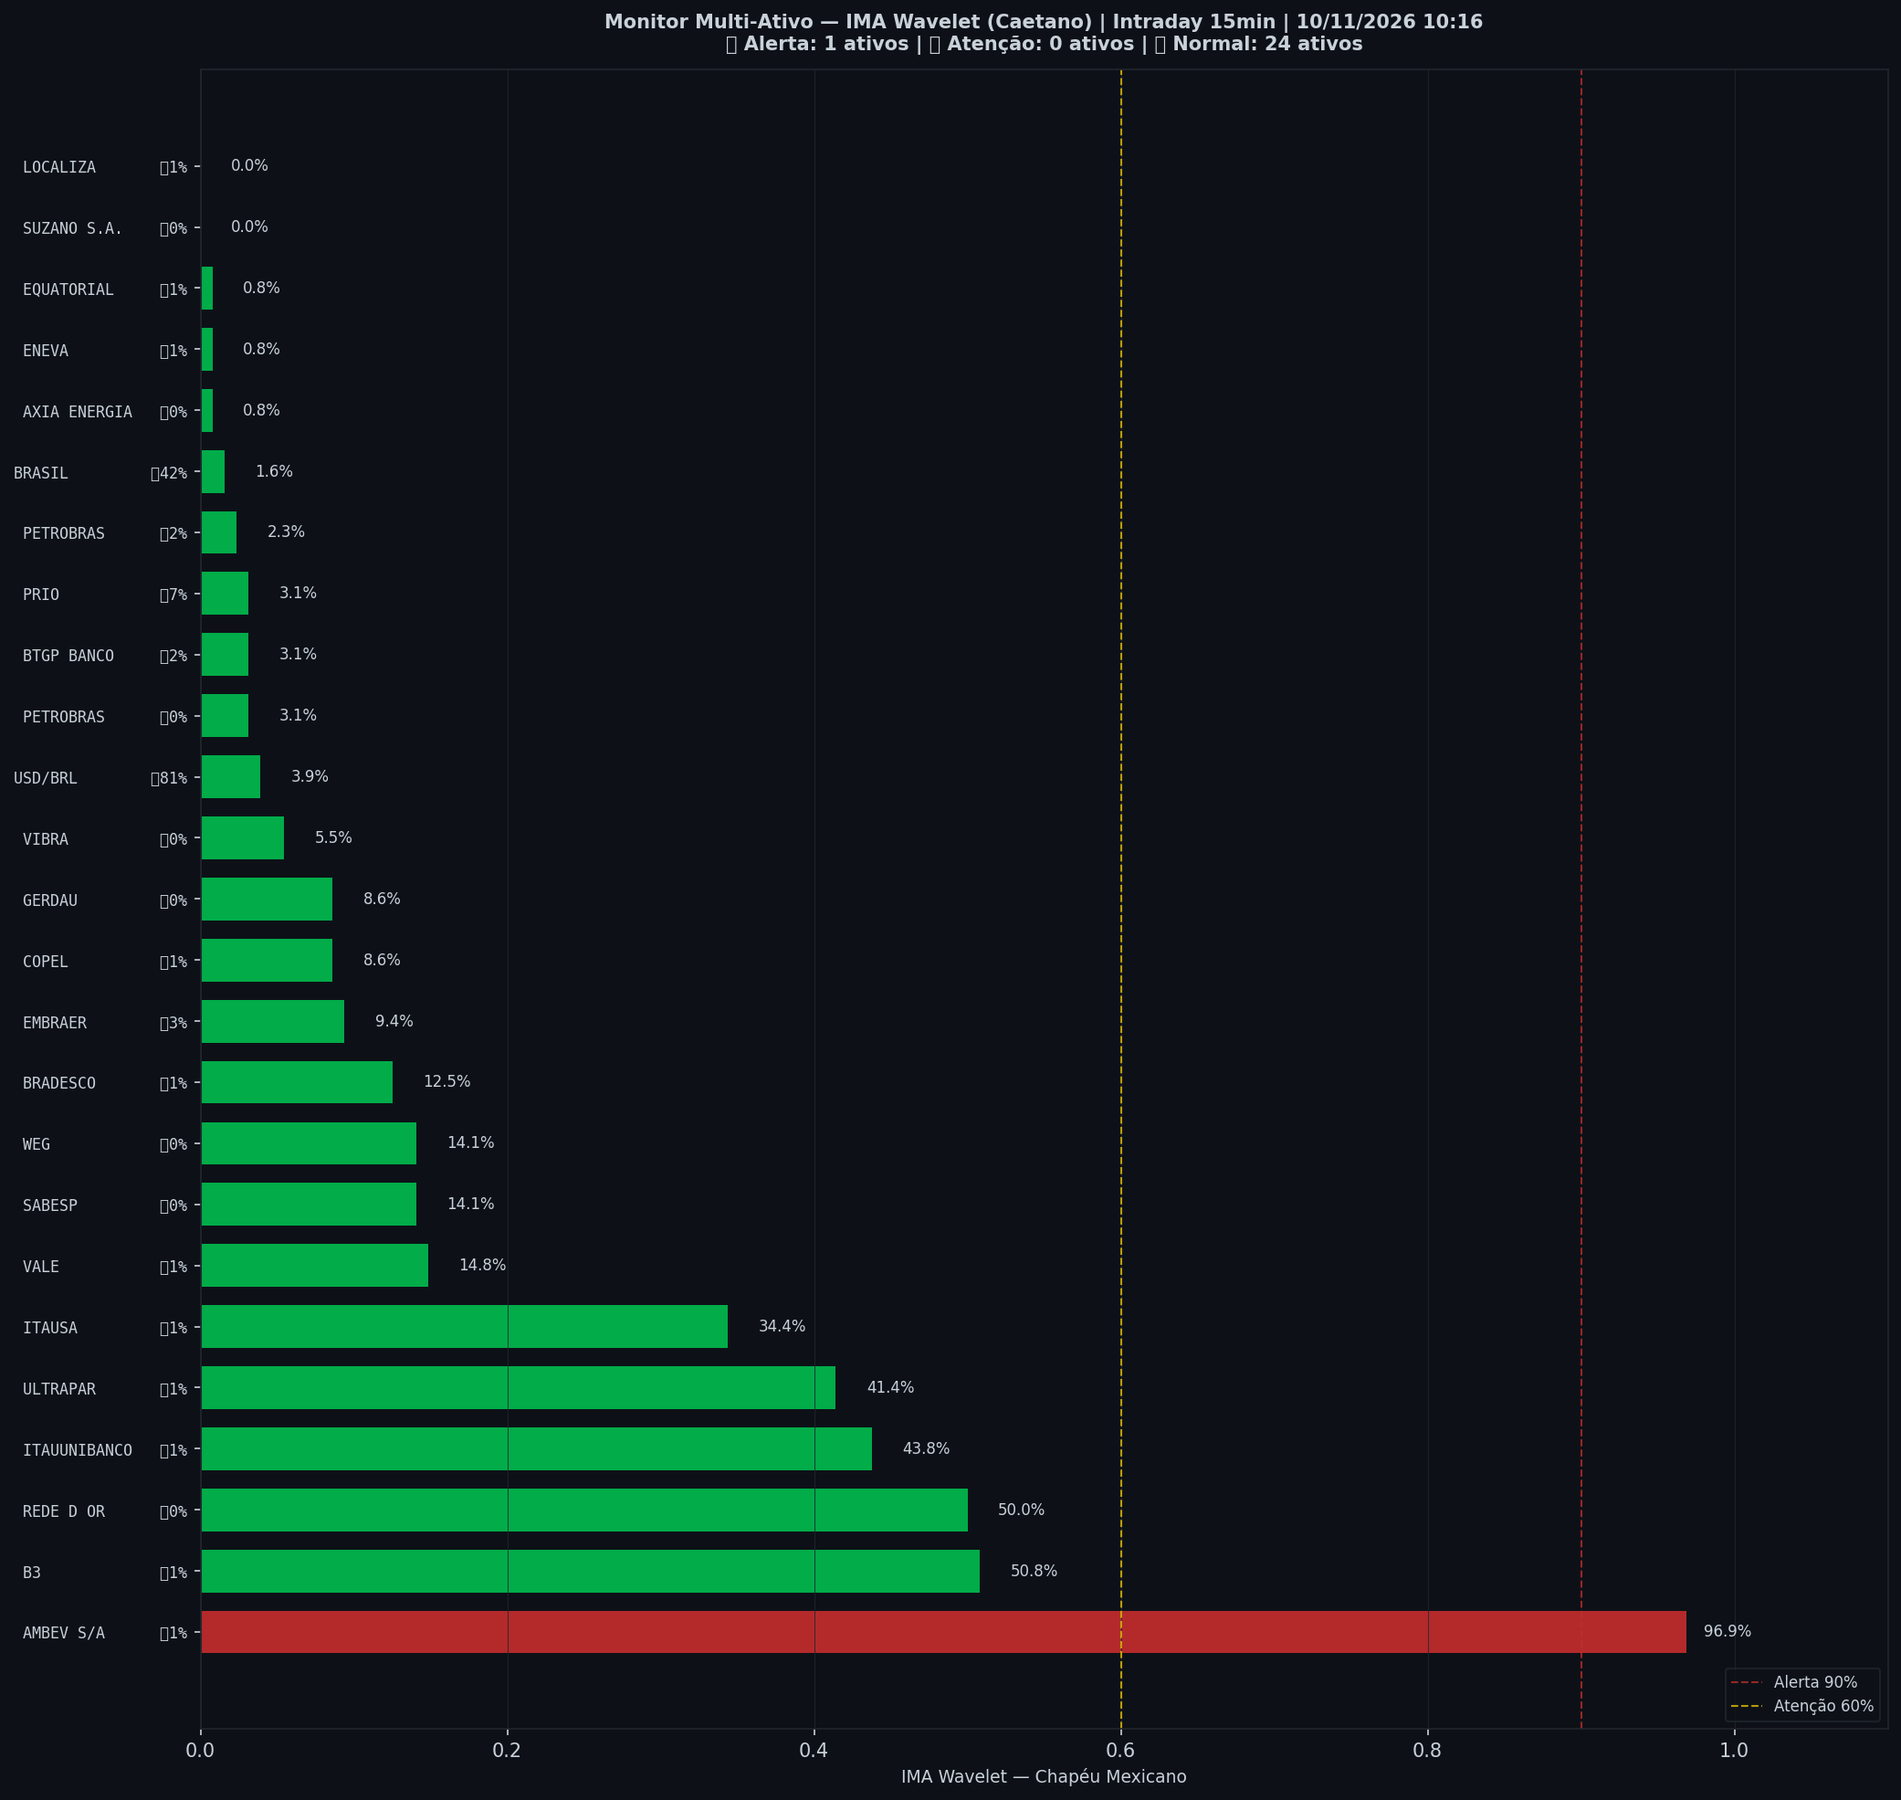
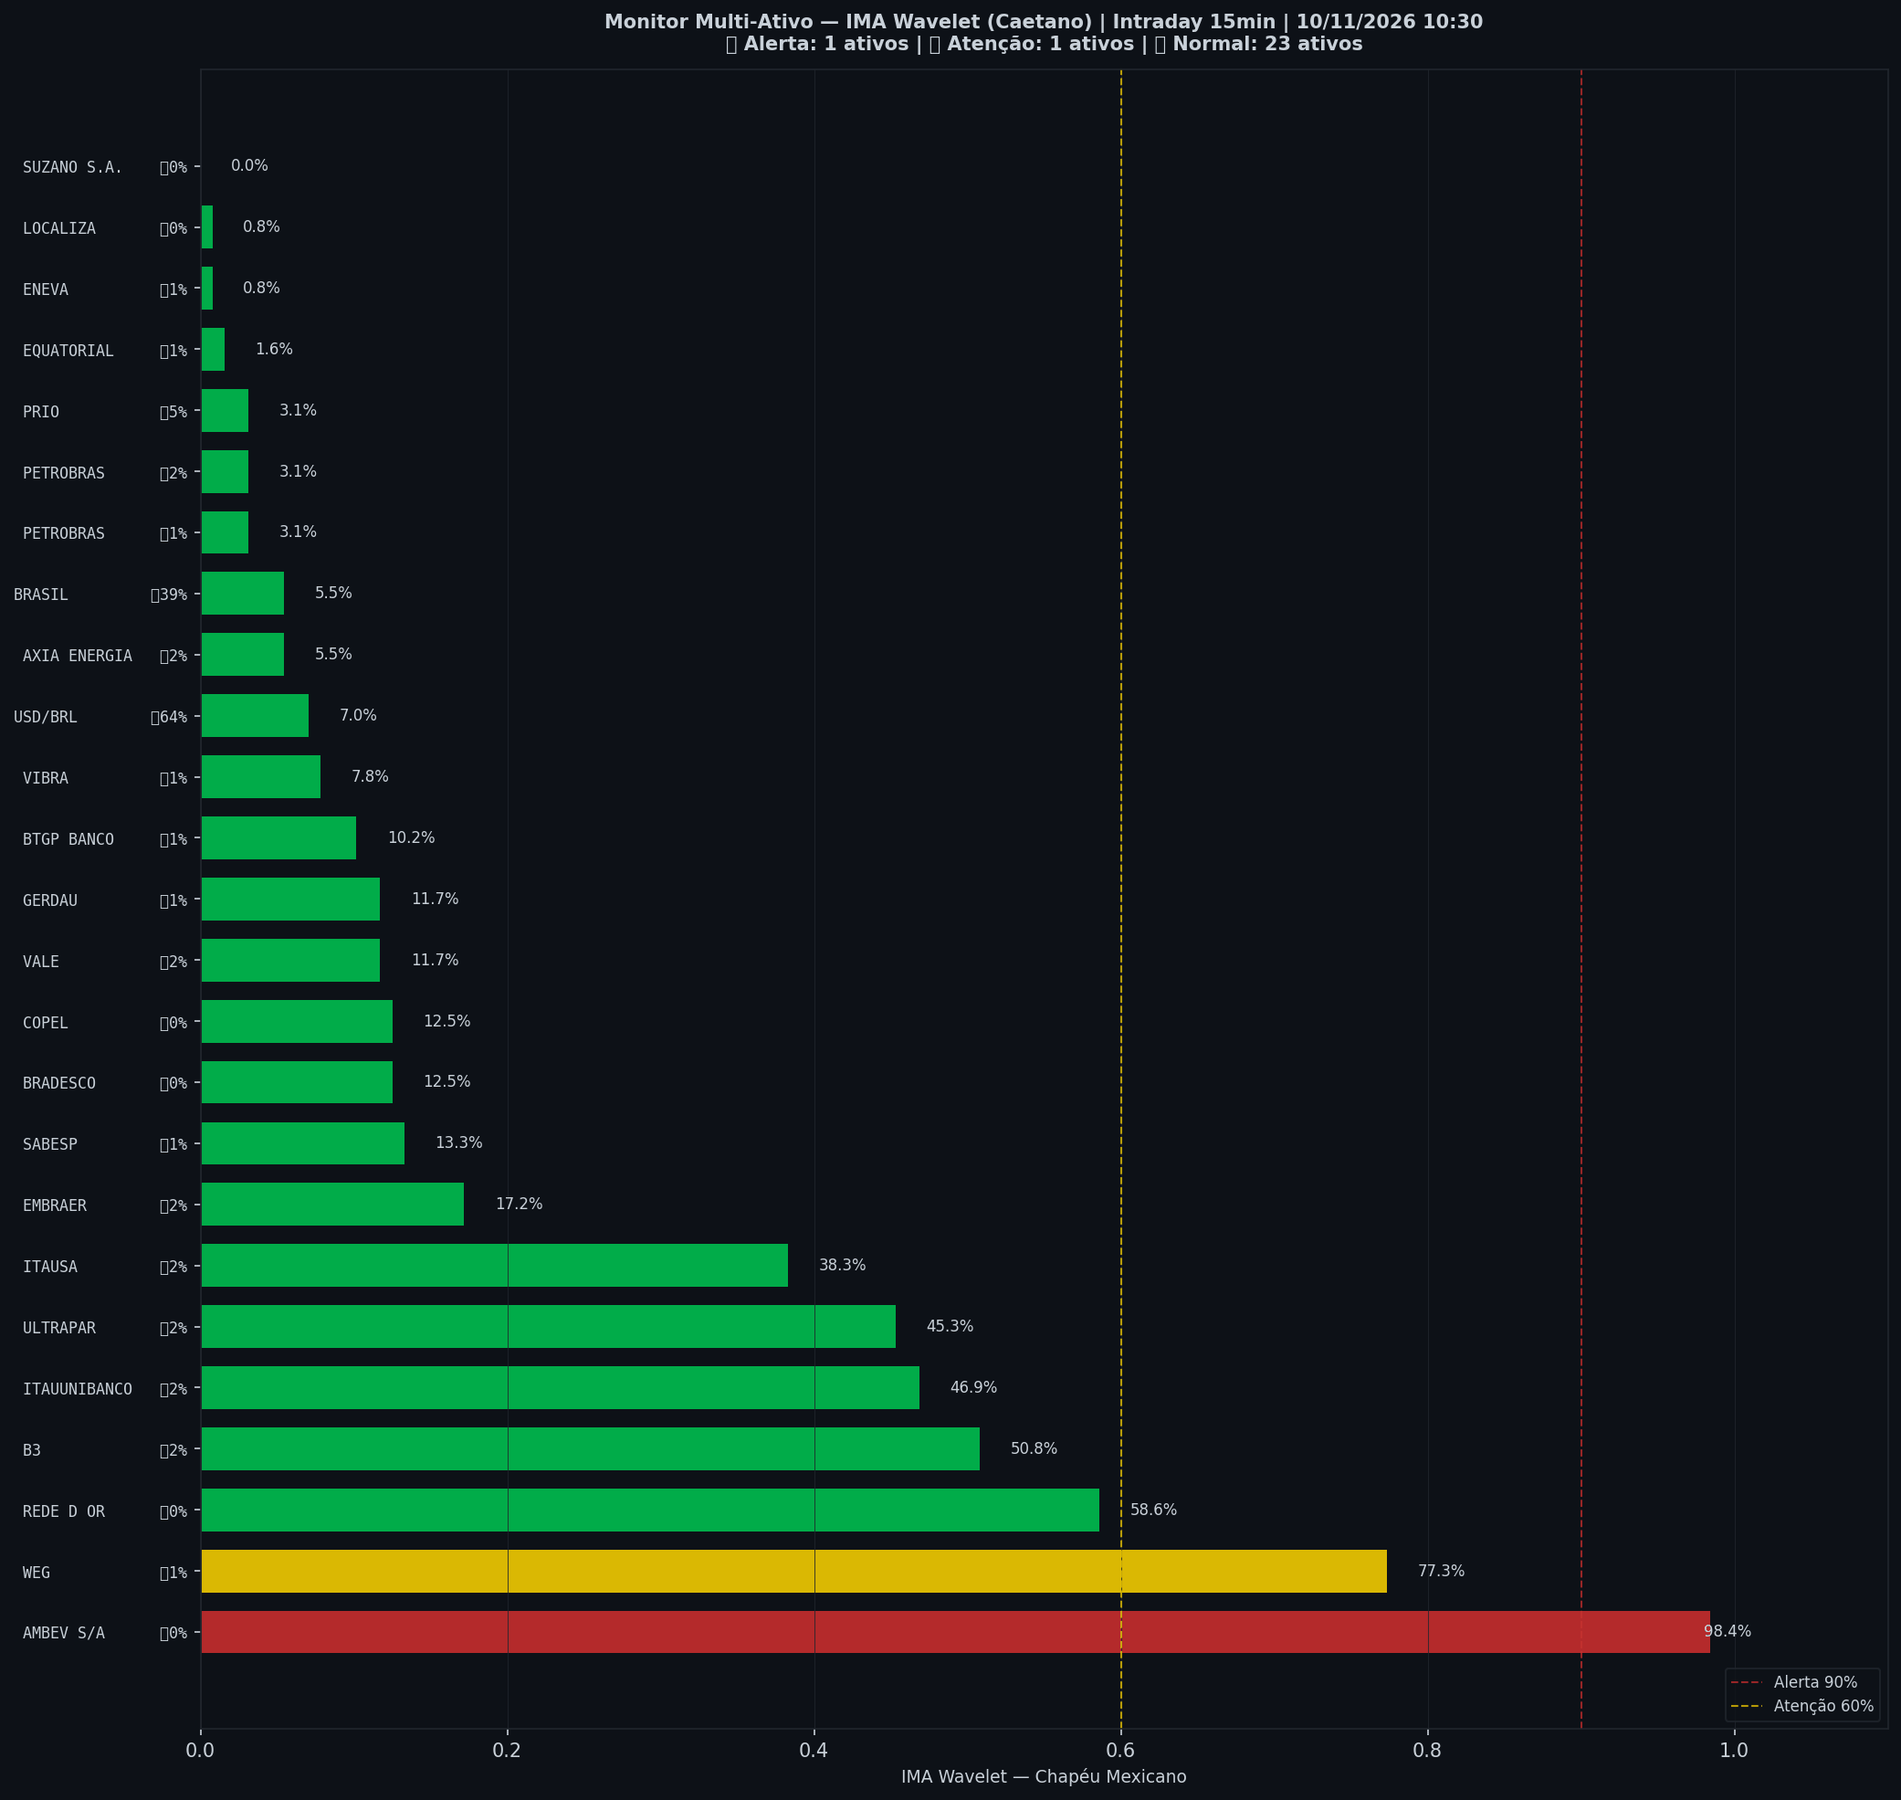
🤖 Auto: Sinal 10/11/2026 10:30

diff --git a/content/intraday/2026-11-10.md b/content/intraday/2026-11-10.md
@@ -1,10 +1,10 @@
 ---
-title: "🔴 Intraday 10/11/2026 10:00 BRT — VERMELHO"
+title: "🔴 Intraday 10/11/2026 10:15 BRT — VERMELHO"
 date: 2026-11-10
 tags: [intraday]
 ---
 
-> [!danger] Onde o mercado está agora (10/11 10:00, candles de 15 min): **🔴 Euforia extrema**
+> [!danger] Onde o mercado está agora (10/11 10:15, candles de 15 min): **🔴 Euforia extrema**
 > `Pânico ◀───────────────────●─▶ Euforia`
 >
 > O Ibovespa subiu muito acima da sua tendência. Historicamente, foi a fase com maior risco de correção.
@@ -20,26 +20,26 @@ tags: [intraday]
 > | 📍 **Sinais** | hoje: nenhum sinal | [abrir](sinais-topo-fundo/) |
 > | 🧪 **Placar ao vivo** | 1 operação(ões), 0 com lucro, soma -0,8% | [abrir](operacoes/) |
 
-> [!danger] IMA Intraday · 15 min (10/11 10:00): 🔴 **VERMELHO** — Risco 92% · ▲ +1 p.p. vs leitura anterior
-> `██████████████████░░`
+> [!danger] IMA Intraday · 15 min (10/11 10:15): 🔴 **VERMELHO** — Risco 96% · ▲ +4 p.p. vs leitura anterior
+> `███████████████████░`
 > ALERTA — esticamento extremo (ζ ≥ 0,90): risco de reversão.
 
 
-> [!danger] 🚨 Nível EXTREMO agora — IMA Intraday · 15 min (10/11 10:00)
-> - 🔴 **ζ Topo 92%** — preço esticado acima da tendência (risco de reversão)
+> [!danger] 🚨 Nível EXTREMO agora — IMA Intraday · 15 min (10/11 10:15)
+> - 🔴 **ζ Topo 96%** — preço esticado acima da tendência (risco de reversão)
 
 > [!note] 🧭 IMA Diário · viés (09/11): 🔪 **Queda forte em curso**
 > 📚 historicamente, quedas assim costumaram continuar um pouco antes de virar
 >
 > *Leitura educacional baseada em 26 anos de dados, não recomendação. [Como usar](../metodologia/crise#3-como-usar-na-prática).*
 
-| Indicador — IMA Intraday · 15 min (10/11 10:00) | Valor |
+| Indicador — IMA Intraday · 15 min (10/11 10:15) | Valor |
 |---|---|
-| 🔴 ζ Topo — preço esticado acima da tendência | 🔴 **92%** |
-| 🔵 ζ Fundo — preço esticado abaixo da tendência | 1% |
+| 🔴 ζ Topo — preço esticado acima da tendência | 🔴 **96%** |
+| 🔵 ζ Fundo — preço esticado abaixo da tendência | 2% |
 | 🫧 LPPL bolha — alta super-exponencial (risco de crash) | 0% |
 | 🫧 LPPL antibolha — queda super-exponencial (risco de repique) | 0% |
-| 📊 Ibovespa | 172.968 pts |
+| 📊 Ibovespa | 173.050 pts |
 
 ![Gráfico do sinal](../graficos/sinal_intraday.png)
 
@@ -47,6 +47,7 @@ tags: [intraday]
 
 | Data | Zona | Evento | Risco | ζ Topo | ζ Fundo | LPPL |
 |---|---|---|---|---|---|---|
+| 2026-11-10 10:15 | 🔴 VERMELHO |  | 🔴 **96%** | 🔴 **96%** | 2% | 0% |
 | 2026-11-10 10:00 | 🔴 VERMELHO |  | 🔴 **92%** | 🔴 **92%** | 1% | 0% |
 | 2026-11-09 18:00 | 🔴 VERMELHO |  | 🔴 **91%** | 🔴 **91%** | 0% | 0% |
 | 2026-11-09 17:45 | 🔴 VERMELHO |  | 🔴 **91%** | 🔴 **91%** | 0% | 0% |
@@ -76,50 +77,49 @@ tags: [intraday]
 | 2026-11-09 11:45 | 🟢 VERDE |  | **25%** | 25% | 0% | 0% |
 | 2026-11-09 11:30 | 🟢 VERDE |  | **23%** | 23% | 0% | 0% |
 | 2026-11-09 11:15 | 🟢 VERDE |  | **20%** | 20% | 0% | 0% |
-| 2026-11-09 11:00 | 🟢 VERDE |  | **19%** | 19% | 0% | 0% |
 
 <small>Destaques: 🟡 ≥ 60% · 🔴 ≥ 90% (Risco e ζ Topo) · 🔵 ≥ 60% · 🔪 ≥ 90% (ζ Fundo) · 🫧 ≥ 30% · 🫧🔴 ≥ 50% (LPPL)</small>
 
 ## Monitor Multi-Ativo
 
-**4% dos ativos em tensão** (1🔴 0🟡) · **1 com ζ Fundo alto** — quanto mais ativos disparam juntos, mais confiável o sinal.
+**8% dos ativos em tensão** (1🔴 1🟡) · **1 com ζ Fundo alto** — quanto mais ativos disparam juntos, mais confiável o sinal.
 
 > [!danger] Em destaque no multi-ativo
-> 🔴 **AMBEV S/A** ζ Topo 97% · 🔵 **USD/BRL** ζ Fundo 81%
+> 🔴 **AMBEV S/A** ζ Topo 98% · 🟡 **WEG** ζ Topo 77% · 🔵 **USD/BRL** ζ Fundo 64%
 
 | Zona | Ativo | Setor | ζ Topo | ζ Fundo |
 |---|---|---|---|---|
-| 🔴 | **AMBEV S/A** | Consumo | 🔴 **96.9%** | 0.8% |
-| 🟢 | **USD/BRL** | Câmbio | 3.9% | 🔵 **81.2%** |
-| 🟢 | **B3** | Financeiro | 50.8% | 0.8% |
-| 🟢 | **REDE D OR** | Saúde | 50.0% | 0.0% |
-| 🟢 | **ITAUUNIBANCO** | Financeiro | 43.8% | 0.8% |
-| 🟢 | **BRASIL** | Financeiro | 1.6% | 42.2% |
-| 🟢 | **ULTRAPAR** | Outros | 41.4% | 0.8% |
-| 🟢 | **ITAUSA** | Financeiro | 34.4% | 0.8% |
-| 🟢 | **VALE** | Mineração | 14.8% | 0.8% |
-| 🟢 | **SABESP** | Saneamento | 14.1% | 0.0% |
-| 🟢 | **WEG** | Industrial | 14.1% | 0.0% |
-| 🟢 | **BRADESCO** | Financeiro | 12.5% | 0.8% |
-| 🟢 | **EMBRAER** | Outros | 9.4% | 3.1% |
-| 🟢 | **COPEL** | Energia | 8.6% | 0.8% |
-| 🟢 | **GERDAU** | Siderurgia | 8.6% | 0.0% |
-| 🟢 | **PRIO** | Petróleo | 3.1% | 7.0% |
-| 🟢 | **VIBRA** | Energia | 5.5% | 0.0% |
-| 🟢 | **PETROBRAS** | Petróleo | 3.1% | 0.0% |
-| 🟢 | **BTGP BANCO** | Financeiro | 3.1% | 1.6% |
-| 🟢 | **PETROBRAS** | Petróleo | 2.3% | 1.6% |
-| 🟢 | **AXIA ENERGIA** | Energia | 0.8% | 0.0% |
+| 🔴 | **AMBEV S/A** | Consumo | 🔴 **98.4%** | 0.0% |
+| 🟡 | **WEG** | Industrial | 🟡 **77.3%** | 0.8% |
+| 🟢 | **USD/BRL** | Câmbio | 7.0% | 🔵 **64.1%** |
+| 🟢 | **REDE D OR** | Saúde | 58.6% | 0.0% |
+| 🟢 | **B3** | Financeiro | 50.8% | 1.6% |
+| 🟢 | **ITAUUNIBANCO** | Financeiro | 46.9% | 1.6% |
+| 🟢 | **ULTRAPAR** | Outros | 45.3% | 1.6% |
+| 🟢 | **BRASIL** | Financeiro | 5.5% | 39.1% |
+| 🟢 | **ITAUSA** | Financeiro | 38.3% | 1.6% |
+| 🟢 | **EMBRAER** | Outros | 17.2% | 2.3% |
+| 🟢 | **SABESP** | Saneamento | 13.3% | 0.8% |
+| 🟢 | **BRADESCO** | Financeiro | 12.5% | 0.0% |
+| 🟢 | **COPEL** | Energia | 12.5% | 0.0% |
+| 🟢 | **VALE** | Mineração | 11.7% | 2.3% |
+| 🟢 | **GERDAU** | Siderurgia | 11.7% | 0.8% |
+| 🟢 | **BTGP BANCO** | Financeiro | 10.2% | 0.8% |
+| 🟢 | **VIBRA** | Energia | 7.8% | 0.8% |
+| 🟢 | **AXIA ENERGIA** | Energia | 5.5% | 2.3% |
+| 🟢 | **PRIO** | Petróleo | 3.1% | 5.5% |
+| 🟢 | **PETROBRAS** | Petróleo | 3.1% | 0.8% |
+| 🟢 | **PETROBRAS** | Petróleo | 3.1% | 1.6% |
+| 🟢 | **EQUATORIAL** | Energia | 1.6% | 0.8% |
 | 🟢 | **ENEVA** | Energia | 0.8% | 0.8% |
-| 🟢 | **EQUATORIAL** | Energia | 0.8% | 0.8% |
-| 🟢 | **LOCALIZA** | Aluguel | 0.0% | 0.8% |
+| 🟢 | **LOCALIZA** | Aluguel | 0.8% | 0.0% |
 | 🟢 | **SUZANO S.A.** | Papel/Celulose | 0.0% | 0.0% |
 
 <small>Destaques: 🟡 ≥ 60% · 🔴 ≥ 90% (Risco e ζ Topo) · 🔵 ≥ 60% · 🔪 ≥ 90% (ζ Fundo) · 🫧 ≥ 30% · 🫧🔴 ≥ 50% (LPPL)</small>
 
 ![Monitor multi-ativo](../graficos/multi_intraday.png)
 
-*Página atualizada em 10/11/2026 10:16 BRT (leitura da barra de 2026-11-10 10:00 BRT).*
+*Página atualizada em 10/11/2026 10:30 BRT (leitura da barra de 2026-11-10 10:15 BRT).*
 
 > [!warning] O que este indicador não faz
 > Medido em 5 anos de Ibovespa, o ζ **não antecipa** topos nem fundos: a capacidade de separar o que sobe do que cai ficou em 0,49–0,52, e 0,50 é moeda jogada ao ar. Ele descreve o estado de agora; não é aviso do que vem. As zonas verde/amarelo/vermelho continuam na página como descrição desse estado — **não as use como sinal de entrada ou saída**.

diff --git a/content/index.md b/content/index.md
@@ -6,9 +6,9 @@ tags: [home]
 
 **As ondas do mercado, explicadas.** Leitura do Ibovespa com estatística de 26 anos, baseada no trabalho de pesquisadores e traders reconhecidos e adaptada por Jarbas Daniel da Costa.
 
-*Última atualização: 10/11/2026 10:16 BRT · Intraday 15min*
+*Última atualização: 10/11/2026 10:30 BRT · Intraday 15min*
 
-> [!danger] Onde o mercado está agora (10/11 10:00, candles de 15 min): **🔴 Euforia extrema**
+> [!danger] Onde o mercado está agora (10/11 10:15, candles de 15 min): **🔴 Euforia extrema**
 > `Pânico ◀───────────────────●─▶ Euforia`
 >
 > O Ibovespa subiu muito acima da sua tendência. Historicamente, foi a fase com maior risco de correção.
@@ -16,14 +16,14 @@ tags: [home]
 >
 > *Leitura educacional baseada em 26 anos de dados. Não é recomendação de investimento.*
 
-> [!danger] 🚨 Nível EXTREMO agora — IMA Intraday · 15 min (10/11 10:00)
-> - 🔴 **ζ Topo 92%** — preço esticado acima da tendência (risco de reversão)
+> [!danger] 🚨 Nível EXTREMO agora — IMA Intraday · 15 min (10/11 10:15)
+> - 🔴 **ζ Topo 96%** — preço esticado acima da tendência (risco de reversão)
 
 ## Agora
 
 | Módulo | Agora | |
 |---|---|---|
-| 🌊 **Sinal IMA** | 🔴 VERMELHO · 🔴 euforia extrema · ζ Topo 🔴 **92%** | [relatório](intraday/2026-11-10) |
+| 🌊 **Sinal IMA** | 🔴 VERMELHO · 🔴 euforia extrema · ζ Topo 🔴 **96%** | [relatório](intraday/2026-11-10) |
 | 📈 **Tendência MME9** | Diário — fora<br>Semanal — fora | [abrir](operacoes/tendencia) |
 | 🎯 **Entradas do método** | ⏳ aguardando: Diário · Nadaraya, Diário · Semáforo N3 após ζ Fundo | [abrir](operacoes/entradas) |
 | 📍 **Sinais** | hoje: nenhum sinal | [abrir](sinais-topo-fundo/) |
@@ -47,26 +47,26 @@ tags: [home]
 > *Leitura educacional baseada em 26 anos de dados, não recomendação. [Como usar](metodologia/crise#3-como-usar-na-prática).*
 
 > [!info]- 🌊 Detalhes do Sinal IMA (indicadores e últimos 7 pregões)
-> > [!danger] IMA Intraday · 15 min (10/11 10:00): 🔴 **VERMELHO** — Risco 92% · ▲ +1 p.p. vs leitura anterior
-> > `██████████████████░░`
+> > [!danger] IMA Intraday · 15 min (10/11 10:15): 🔴 **VERMELHO** — Risco 96% · ▲ +4 p.p. vs leitura anterior
+> > `███████████████████░`
 > > ALERTA — esticamento extremo (ζ ≥ 0,90): risco de reversão.
 >
 >
-> | Indicador — IMA Intraday · 15 min (10/11 10:00) | Valor |
+> | Indicador — IMA Intraday · 15 min (10/11 10:15) | Valor |
 > |---|---|
-> | 🔴 ζ Topo — preço esticado acima da tendência | 🔴 **92%** |
-> | 🔵 ζ Fundo — preço esticado abaixo da tendência | 1% |
+> | 🔴 ζ Topo — preço esticado acima da tendência | 🔴 **96%** |
+> | 🔵 ζ Fundo — preço esticado abaixo da tendência | 2% |
 > | 🫧 LPPL bolha — alta super-exponencial (risco de crash) | 0% |
 > | 🫧 LPPL antibolha — queda super-exponencial (risco de repique) | 0% |
-> | 📊 Ibovespa | 172.968 pts |
+> | 📊 Ibovespa | 173.050 pts |
 >
-> **Multi-ativo:** 4% em tensão (1🔴 0🟡 de 25 ativos)
+> **Multi-ativo:** 8% em tensão (1🔴 1🟡 de 25 ativos)
 >
 > **Últimos 7 pregões**
 >
 > | Data | Zona | Risco | ζ Topo | ζ Fundo | LPPL |
 > |---|---|---|---|---|---|
-> | [10/11/2026](intraday/2026-11-10) | 🔴 VERMELHO | 🔴 **92%** | 🔴 **92%** | 1% | 0% |
+> | [10/11/2026](intraday/2026-11-10) | 🔴 VERMELHO | 🔴 **96%** | 🔴 **96%** | 2% | 0% |
 > | [09/11/2026](intraday/2026-11-09) | 🔴 VERMELHO | 🔴 **91%** | 🔴 **91%** | 0% | 0% |
 >
 > <small>Destaques: 🟡 ≥ 60% · 🔴 ≥ 90% (Risco e ζ Topo) · 🔵 ≥ 60% · 🔪 ≥ 90% (ζ Fundo) · 🫧 ≥ 30% · 🫧🔴 ≥ 50% (LPPL)</small>

diff --git a/content/historico.md b/content/historico.md
@@ -5,7 +5,7 @@ tags: [historico]
 
 # 📜 Histórico de leituras (v5)
 
-**2.245 leituras** desde 2026-07-03. Na página ficam os últimos 3 dias leitura por leitura e o resumo de cada dia anterior; o registro inteiro está no arquivo para baixar.
+**2.246 leituras** desde 2026-07-03. Na página ficam os últimos 3 dias leitura por leitura e o resumo de cada dia anterior; o registro inteiro está no arquivo para baixar.
 
 [**Baixar o histórico completo**](historico-completo.csv) (98 KB · abre no Excel e no LibreOffice)
 
@@ -16,6 +16,7 @@ tags: [historico]
 
 | Data | Modo | Zona | Risco | IMA | LPPL |
 |---|---|---|---|---|---|
+| 2026-11-10 10:15 | intraday | 🔴 VERMELHO | 🔴 **96%** | 🔴 **96%** | 0% |
 | 2026-11-10 10:00 | intraday | 🔴 VERMELHO | 🔴 **92%** | 🔴 **92%** | 0% |
 | 2026-11-09 18:00 | intraday | 🔴 VERMELHO | 🔴 **91%** | 🔴 **91%** | 0% |
 | 2026-11-09 17:45 | intraday | 🔴 VERMELHO | 🔴 **91%** | 🔴 **91%** | 0% |

diff --git a/content/operacoes/ranking.md b/content/operacoes/ranking.md
@@ -5,7 +5,7 @@ tags: [operacoes]
 description: "As regras de compra do site ordenadas pelo resultado, com treino, teste e placar ao vivo"
 ---
 
-*Atualizado 10/11/2026 10:16 · histórico simulado com as regras congeladas em 23/10/2026 + placar ao vivo.*
+*Atualizado 10/11/2026 10:30 · histórico simulado com as regras congeladas em 23/10/2026 + placar ao vivo.*
 
 As regras de compra do site, **da que mais rendeu para a que menos rendeu**. O resultado é por operação, no índice à vista, sem custos e sem juros compostos (a soma é só a soma das operações). **Treino** = entradas de 2001 a 2013 e **teste** = 2014 em diante: uma regra só é confiável se ganhou nos dois. O único resultado sem nenhum ajuste ao histórico é o **placar ao vivo**.
 

diff --git a/content/linha-do-tempo/index.md b/content/linha-do-tempo/index.md
@@ -5,7 +5,7 @@ description: "Todo sinal, ordem, stop e aviso do Pêndulo de Mercado, do mais re
 tags: [eventos]
 ---
 
-*Atualizada 10/11/2026 10:16 BRT · a cada 15 min no pregão e às 19h.*
+*Atualizada 10/11/2026 10:30 BRT · a cada 15 min no pregão e às 19h.*
 
 Tudo o que o sistema fez ou detectou, **do mais recente para o mais antigo**: sinais de topo e fundo, ordens de compra e de venda armadas, compras, vendas, stops, avisos de 🚨 preço perto do nível e mudanças do Sinal IMA. Os **últimos 7 dias** ficam abertos; o resto, por **ano → mês → dia**.
 
